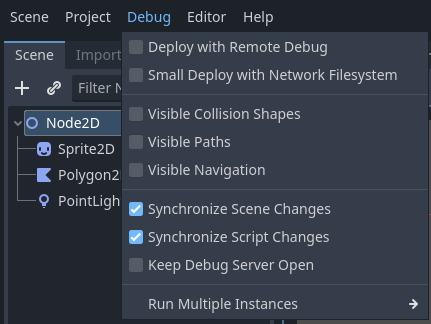
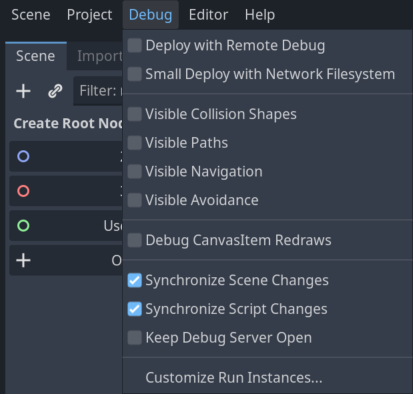
Update Overview of Debugging Tools for 4.3.

diff --git a/tutorials/scripting/debug/overview_of_debugging_tools.rst b/tutorials/scripting/debug/overview_of_debugging_tools.rst
@@ -35,42 +35,162 @@ Here are the descriptions of the options:
 Deploy with Remote Debug
 ++++++++++++++++++++++++
 
-When exporting and deploying, the resulting executable will attempt to connect
-to the IP of your computer for debugging.
+When this option is enabled, using one-click deploy will make the executable
+attempt to connect to this computer's IP so the running project can be debugged.
+This option is intended to be used for remote debugging (typically with a mobile
+device).
+You don't need to enable it to use the GDScript debugger locally.
 
-Small Deploy with Network FS
-++++++++++++++++++++++++++++
+Small Deploy with Network Filesystem
+++++++++++++++++++++++++++++++++++++
 
 This option speeds up testing for games with a large footprint on remote devices.
 
-When **Small Deploy with Network FS** is on, instead of exporting the full game,
-deploying the game builds a minimal executable. The editor then provides files
-from the project over the network.
+When **Small Deploy with Network Filesystem** is on, instead of exporting the
+full game, deploying the game builds a minimal executable. The editor then
+provides files from the project over the network.
 
-Also, on Android, the game is deployed using the USB cable to speed up deployment.
+Also, on Android, the game is deployed using the USB cable to speed up
+deployment.
 
 Visible Collision Shapes
 ++++++++++++++++++++++++
 
-This option makes collision shapes and raycast nodes visible in the running game.
+When this option is enabled, collision shapes and raycast nodes (for 2D and 3D)
+will be visible in the running project.
+
+Visible Paths
++++++++++++++
+
+When this option is enabled, curve resources used by path nodes will be visible
+in the running project.
 
 Visible Navigation
 ++++++++++++++++++
 
-Navigation meshes and polygons will be visible on the running game.
+When this option is enabled, navigation meshes, and polygons will be visible in
+the running project.
 
-Sync Scene Changes
-++++++++++++++++++
+Visible Avoidance
++++++++++++++++++
 
-With this option, any change you make to a scene in the editor at runtime
-appears instantly. When used remotely on a device, this is more efficient
-with the network filesystem.
+When this option is enabled, avoidance object shapes, radiuses, and velocities
+will be visible in the running project.
 
-Sync Script Changes
-+++++++++++++++++++
+Debug CanvasItem Redraws
+++++++++++++++++++++++++
 
-Any script that is saved will be reloaded on the running game. When used
+When this option is enabled, redraw requests of 2D objects will become visible
+(as a short flash) in the running project.
+This is useful to troubleshoot low processor mode.
+
+Synchronize Scene Changes
+++++++++++++++++++++++++++
+
+When this option is enabled, any changes made to the scene in the editor will be
+replicated in the running project.
+When used remotely on a device, this is more efficient when the network
+filesystem option is enabled.
+
+Synchronize Script Changes
++++++++++++++++++++++++++++
+
+When this option is enabled, any changes made to the script in the editor will
+be reloaded in the running project. When used
 remotely on a device, this is more efficient with the network filesystem.
+
+Keep Debug Server Open
+++++++++++++++++++++++
+
+When this option is enabled, the editor debug server will stay open and listen
+for new sessions started outside of the editor itself.
+
+Customize Run Instances...
+++++++++++++++++++++++++++
+
+This opens a dialog allowing you to tell Godot to run multiple instances of the
+game at once, and to specify the command line arguments for each instance. This
+is especially useful when building and debugging multiplayer games.
+
+.. image:: img/customize_run_instances.webp
+
+Enable Multiple Instances
+^^^^^^^^^^^^^^^^^^^^^^^^^
+
+When this option is enabled, the editor will run multiple instances of the
+project at once when you Run Project.
+
+Below this checkbox is a selector to pick how many instances to run.
+
+Checking the box and setting this to only 1 is the same as not checking this box
+at all.
+
+Main Run Args
+^^^^^^^^^^^^^
+
+These are the arguments that will be passed to **every** instance of the project
+when you Run Project, unless you select "Enabled" under "Override Main Run Args"
+for a specific instance.
+
+Note that these arguments are space-separated.
+
+.. tip::
+
+    These arguments can be accessed in your script by using
+    :ref:`get_cmdline_args<class_OS_method_get_cmdline_args>`.
+
+.. warning::
+
+    Even if you uncheck "Enable Multiple Instances" these arguments will be
+    passed when you Run Project.
+
+Main Feature Tags
+^^^^^^^^^^^^^^^^^
+
+These are the feature tags that will be passed to **every** instance of the
+project when you Run Project, unless you select "Enabled" under "Override Main
+Tags" for a specific instance.
+
+Override Main Run Args
+^^^^^^^^^^^^^^^^^^^^^^
+
+When this is enabled, the arguments in the "Main Run Args" field will **not be
+passed** to this specific instance of the project when you Run Project.
+
+Launch Arguments
+^^^^^^^^^^^^^^^^
+
+These are the arguments that will be passed to this specific instance of the
+project when you Run Project. They will be **combined with** the "Main Run Args"
+unless you select "Enabled" under "Override Main Run Args".
+
+Override Main Tags
+^^^^^^^^^^^^^^^^^^
+
+When this is enabled, the tags in the "Main Feature Tags" field will **not be
+passed** to this specific instance of the project when you Run Project.
+
+Feature Tags
+^^^^^^^^^^^^
+
+These are the feature tags that will be passed to this specific instance of the
+project when you Run Project. They will be **combined with** the "Main Feature
+Tags" unless you select "Enabled" under "Override Main Tags".
+
+.. warning::
+    If you want to pass "User" arguments, that can be accessed with
+    :ref:`get_cmdline_user_args<class_OS_method_get_cmdline_user_args>` then you
+    must prefix them with two dashes **and a space** like `-- one two three`.
+
+    Be aware that these dashes will apply to arguments added later in the
+    "Launch Arguments" on a per instance basis, which can cause some confusion
+    when combining the `Main Run Args` and `Launch Arguments`.
+
+    If you place `-- one two three` in the "Main Run Args" and `-- four five
+    six` in the "Launch Arguments" then the final command line arguments will be
+    `one two three -- four five six`. This is because the `--` is repeated in
+    the "Launch Arguments".
+
 
 .. _doc_debugger_tools_and_options:
 
@@ -102,8 +222,6 @@ The **Break** button causes a break in the script like a breakpoint would.
 **Step Over** goes to the next line of code, and **Step Into** goes into
 a function if possible. Otherwise, it does the same thing as **Step Over**.
 
-The **Keep Debugger Open** option keeps the debugger open after a scene
-has been closed.
 The **Debug with External Editor** option lets you debug your game with an external editor.
 This option is also accessible in **Editor Settings > Debugger**.
 
